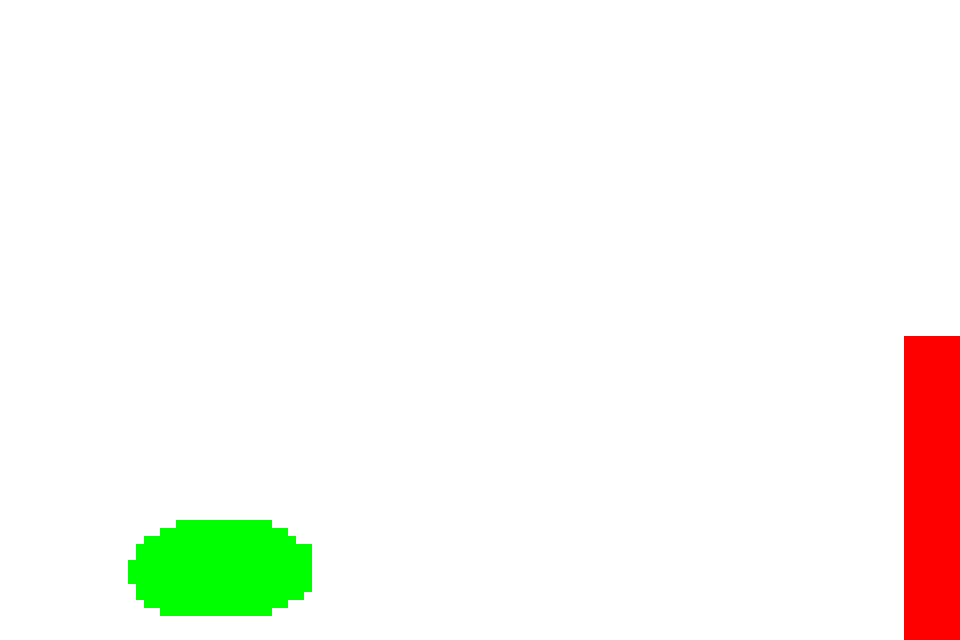
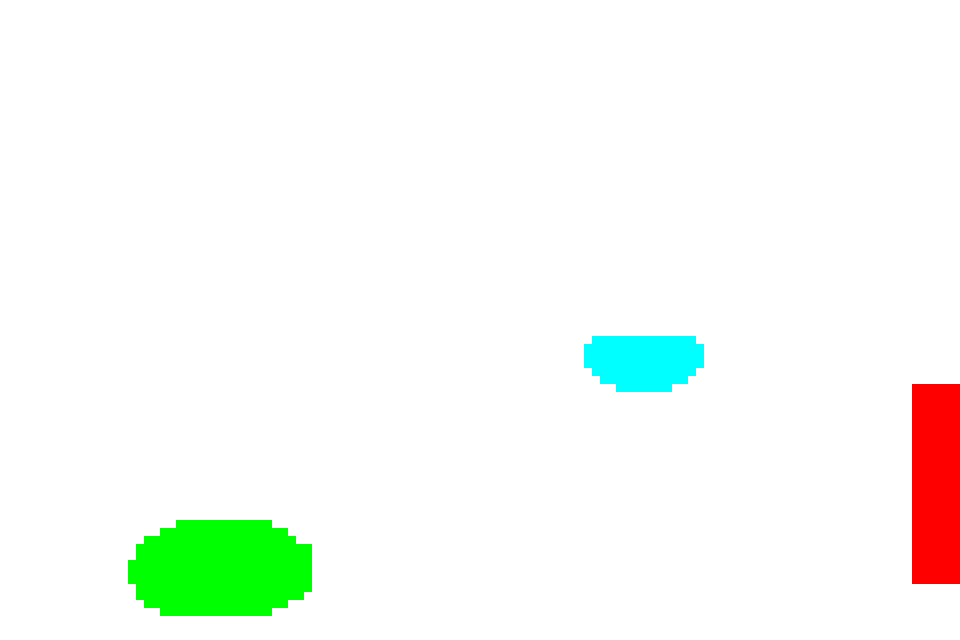
Développement de l'ui

Changed region(s): [[0.9375, 0.5, 1.0, 1.0], [0.5938, 0.5, 0.75, 0.625]]

diff --git a/jeu/ui/modales/jauge.py b/jeu/ui/modales/jauge.py
@@ -1,0 +1,32 @@
+import pygame 
+
+class Jauge:
+    def __init__(self, valeur, min, max, position, largeur, hauteur, couleur, texte=""):  
+        self.valeur = valeur
+        self.min = min
+        self.max = max
+        self.position = position
+        self.largeur = largeur
+        self.hauteur = hauteur
+        self.couleur = couleur
+
+        self.police = pygame.font.SysFont("8-bit Operator", 20)  # Police pour afficher le texte de la jauge
+        self.texte = texte
+
+    def mettre_a_jour(self, nouvelle_valeur):
+        self.valeur = max(self.min, min(self.max, nouvelle_valeur))
+    
+    def calculer_pourcentage(self, valeur):
+        # Calcul le pourcentage de la jauge : 0 = barre vide; 1 = barre pleine 
+        return (valeur - self.min) / (self.max - self.min)
+
+    def dessiner(self, surface):
+        # Fond de la jauge 
+        pygame.draw.rect(surface, (182, 181, 249), (*self.position, self.largeur, self.hauteur))
+        largeur_remplie = self.largeur * self.calculer_pourcentage(self.valeur)
+        pygame.draw.rect(surface, self.couleur, (*self.position, largeur_remplie, self.hauteur))
+        # Bordure de la jauge
+        pygame.draw.rect(surface, (133, 132, 180), (*self.position, self.largeur, self.hauteur), 2) 
+        if self.texte:
+            texte_surface = self.police.render(f"{self.texte}: {self.valeur}/{self.max}", True, (255, 255, 255))
+            surface.blit(texte_surface, (self.position[0] + 5, self.position[1] + 5))

diff --git a/jeu/ui/modales/modale.py b/jeu/ui/modales/modale.py
@@ -1,11 +1,18 @@
 # jeu/ui/modales/modale.py
 import pygame
-
+from jeu.ui.modales.jauge import Jauge
+from jeu.ui.modales.label import Label
+from jeu.ui.element import ElementUI
 
 class Modale:
     def __init__(self, icone, panneau, centree=False):
         self.icone = icone        # ElementUI
         self.panneau = panneau    # ElementUI
+        self.vie = Jauge(100, 0, 100, (700, 250), 200, 30, (94, 199, 118), "VIE")  
+        self.xp = Jauge(0, 0, 100, (700, 300), 200, 30, (255, 230, 123), "XP")    
+        self.sante = Jauge(0, -50, 50, (700, 350), 200, 30, (245, 121, 158), "SANTÉ")   
+        self.texte_informations = Label((680, 160), "INFORMATIONS")
+        self.texte_inventaire = Label((377, 160), "INVENTAIRE")
         self.panneau.centree = centree
         self.ouvert = False
 
@@ -23,3 +30,9 @@ class Modale:
         self.icone.dessiner(surface)
         if self.ouvert:
             self.panneau.dessiner(surface)
+            self.vie.dessiner(surface)  
+            self.xp.dessiner(surface)
+            self.sante.dessiner(surface)
+            self.texte_informations.dessiner(surface)
+            self.texte_inventaire.dessiner(surface)
+          

diff --git a/jeu/ui/modales/label.py b/jeu/ui/modales/label.py
@@ -1,0 +1,15 @@
+import pygame 
+
+class Label:
+    def __init__(self, position, texte=""):  
+        self.texte = texte
+        self.position = position
+
+        self.police = pygame.font.SysFont("8-bit Operator", 40)
+        self.padding = 10
+    
+    def dessiner(self, surface):
+        if self.texte:
+            texte_surface = self.police.render(f"{self.texte}", True, (133, 132, 180))
+            pygame.draw.rect(surface, (133, 132, 180), (*self.position, texte_surface.get_width() + self.padding * 2, texte_surface.get_height() + self.padding * 2), 2) 
+            surface.blit(texte_surface, (self.position[0] + self.padding, self.position[1] + self.padding)) 

diff --git a/jeu/monde/couleurs_meta.py b/jeu/monde/couleurs_meta.py
@@ -7,3 +7,7 @@ dans `Niveau`.
 
 COULEUR_SPAWN = (0, 255, 0)      # vert  — apparition du perso
 COULEUR_SORTIE = (255, 0, 0)     # rouge — sortie vers niveau suivant
+COULEUR_MONSTRE = (0, 0, 255)     # bleu  — position d'un monstre
+COULEUR_QUETE = (255, 0, 255)     # violet — position d'une quête
+COULEUR_DIALOGUE = (0, 255, 255)    # cyan   — position d'un dialogue
+COULEUR_PASSAGE = (255, 255, 0)     # jaune  — position d'un combat entre niveaux

diff --git a/jeu/ui/modales/inventaire.py b/jeu/ui/modales/inventaire.py
@@ -1,6 +1,7 @@
 # jeu/ui/modales/inventaire.py
 from jeu.ui.element import ElementUI
 from jeu.ui.modales.modale import Modale
+from jeu.ui.modales.jauge import Jauge
 
 
 class Inventaire(Modale):
@@ -10,3 +11,5 @@ class Inventaire(Modale):
             panneau=ElementUI("images/inventaire.png", (350, 130)),
             centree=True
         )
+
+

diff --git a/main.py b/main.py
@@ -15,6 +15,7 @@ import argparse
 import pygame
 from jeu import Ecran, Gameplay
 
+pygame.font.init()
 parseur = argparse.ArgumentParser(description="Pixel Fall")
 parseur.add_argument(
     "--debug",

diff --git a/jeu/config.py b/jeu/config.py
@@ -1,3 +1,3 @@
 LARGEUR = 800
 HAUTEUR = 600
-VITESSE_PERSO = 0.3
+VITESSE_PERSO = 0.2
